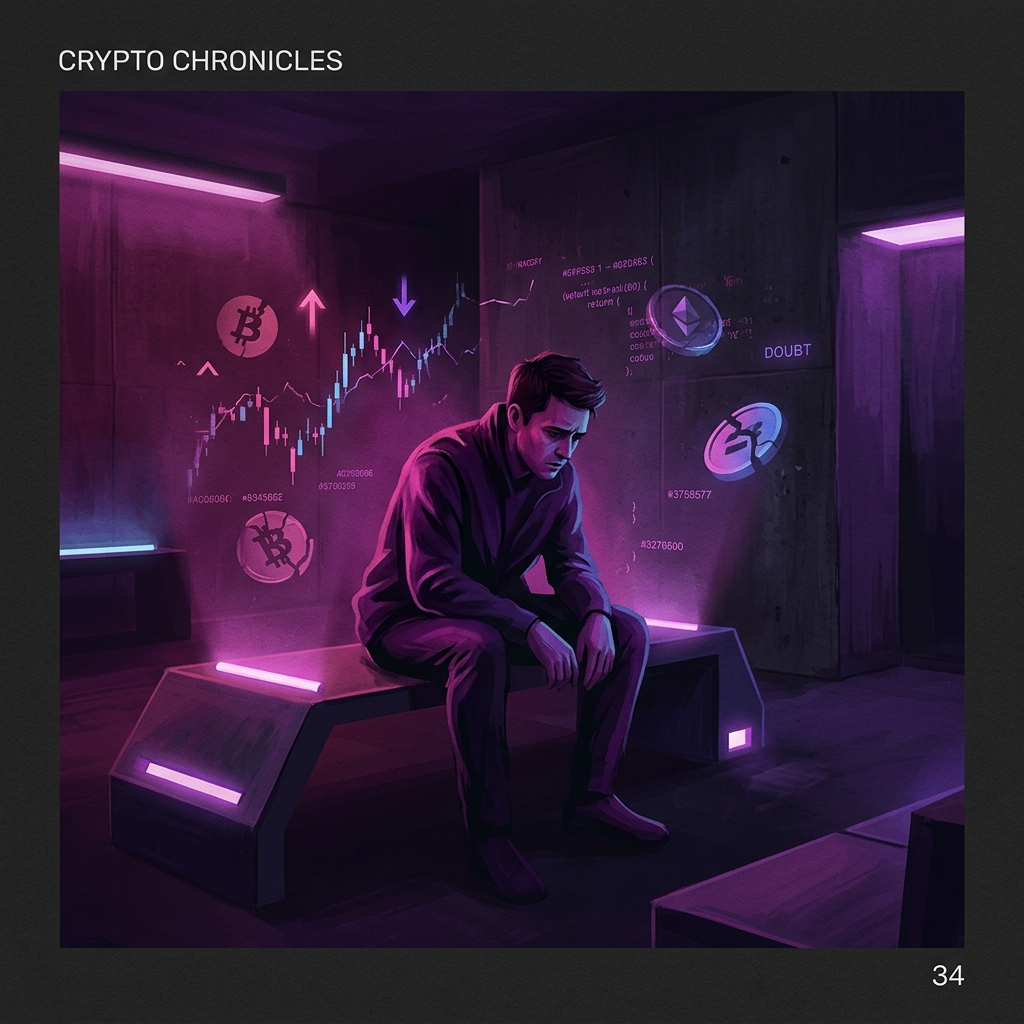
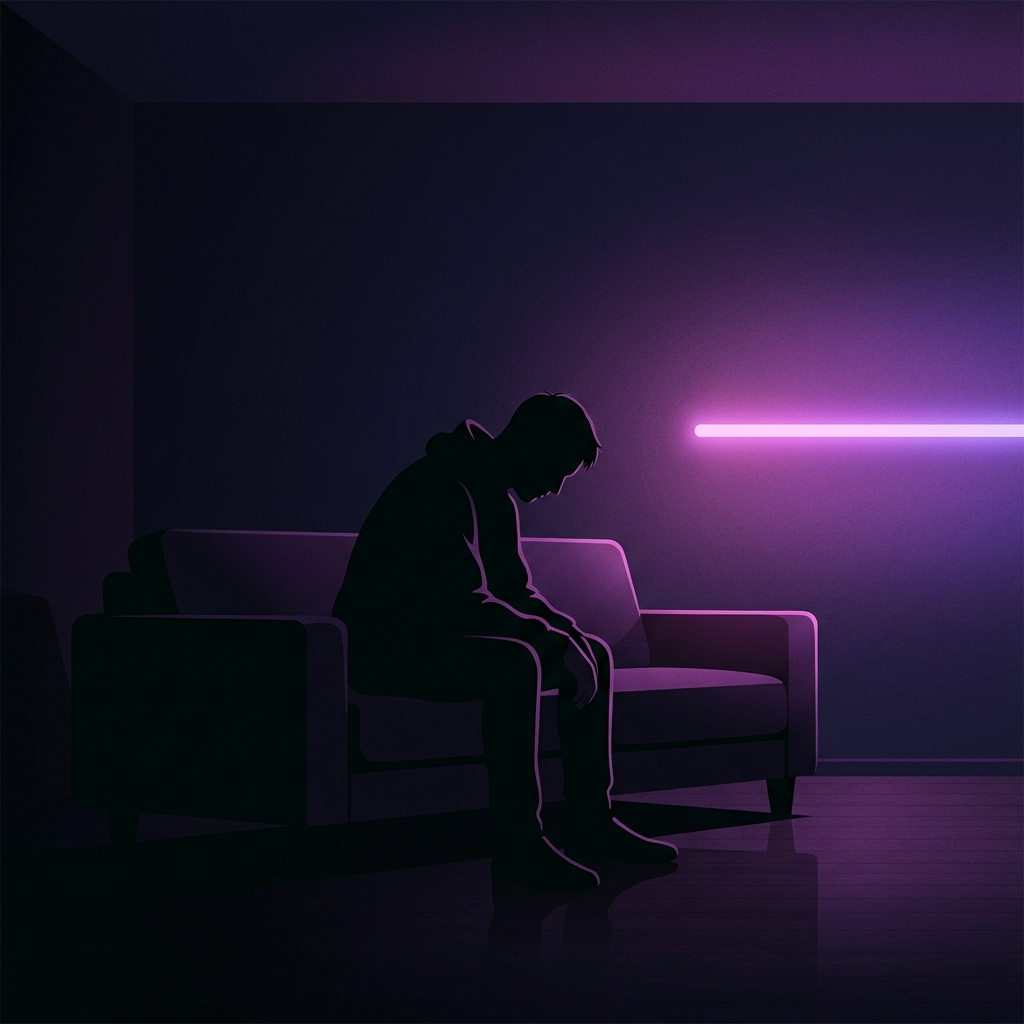
feat: sederhanakan gambar dan perkecil ukuran layout section MindsetSelection
Menggunakan gambar siluet minimalis dengan minim detail (tanpa teks/ikon/koin sibuk) untuk mewakili pesan secara jernih, serta memperkecil lebar grid kartu dan ukuran font teks overlay.

diff --git a/components/landing/MindsetSelection.tsx b/components/landing/MindsetSelection.tsx
@@ -26,10 +26,10 @@ export default function MindsetSelection() {
         </div>
 
         {/* GRID DUA KARTU KOMPARATIF */}
-        <div className="grid grid-cols-1 md:grid-cols-2 gap-8 md:gap-10 max-w-4xl mx-auto">
+        <div className="grid grid-cols-1 md:grid-cols-2 gap-8 md:gap-10 max-w-3xl mx-auto">
           
           {/* KARTU 1 (KIRI): Yang Berani Bertindak (Centang Biru, Aksen Cyan/Biru) */}
-          <div className="relative group rounded-3xl border border-[#00d9ff]/30 bg-[#070707] overflow-hidden aspect-[4/5] sm:aspect-[4/5] md:aspect-[3/4] transition-all duration-500 hover:border-[#00d9ff]/70 hover:shadow-[0_0_40px_rgba(0,217,255,0.12)] cursor-pointer">
+          <div className="relative group rounded-3xl border border-[#00d9ff]/30 bg-[#070707] overflow-hidden aspect-[4/5] transition-all duration-500 hover:border-[#00d9ff]/70 hover:shadow-[0_0_40px_rgba(0,217,255,0.12)] cursor-pointer">
             {/* Badge Verified Centang Biru di Atas Tengah */}
             <div className="absolute -top-4 left-1/2 -translate-x-1/2 z-30">
               <svg className="w-8 h-8 text-[#00d9ff] fill-current drop-shadow-[0_0_8px_rgba(0,217,255,0.6)]" viewBox="0 0 24 24">
@@ -51,7 +51,7 @@ export default function MindsetSelection() {
 
             {/* Konten Teks Overlay */}
             <div className="absolute inset-x-0 bottom-0 p-6 md:p-8 z-20">
-              <p className="text-xl sm:text-2xl md:text-3xl font-bold tracking-tight text-white leading-snug">
+              <p className="text-lg sm:text-xl md:text-2xl font-bold tracking-tight text-white leading-snug">
                 Tapi keberanian mengambil risiko{" "}
                 <span className="underline decoration-[#00d9ff] decoration-2 underline-offset-4">
                   adalah fondasi awal menuju kesuksesan.
@@ -61,7 +61,7 @@ export default function MindsetSelection() {
           </div>
 
           {/* KARTU 2 (KANAN): Yang Ragu & Skeptis (Tanpa Badge, Aksen Purple/Pink) */}
-          <div className="relative group rounded-3xl border border-purple-500/25 bg-[#070707] overflow-hidden aspect-[4/5] sm:aspect-[4/5] md:aspect-[3/4] transition-all duration-500 hover:border-purple-500/50 hover:shadow-[0_0_35px_rgba(168,85,247,0.08)] cursor-pointer">
+          <div className="relative group rounded-3xl border border-purple-500/25 bg-[#070707] overflow-hidden aspect-[4/5] transition-all duration-500 hover:border-purple-500/50 hover:shadow-[0_0_35px_rgba(168,85,247,0.08)] cursor-pointer">
             {/* Gambar Background Ragu */}
             <Image
               src="/path_skeptic.png"
@@ -76,7 +76,7 @@ export default function MindsetSelection() {
             
             {/* Konten Teks Overlay */}
             <div className="absolute inset-x-0 bottom-0 p-6 md:p-8 z-20">
-              <p className="text-xl sm:text-2xl md:text-3xl font-bold tracking-tight text-neutral-200 leading-snug">
+              <p className="text-lg sm:text-xl md:text-2xl font-bold tracking-tight text-neutral-200 leading-snug">
                 Pengetahuan yang kamu pelajari tidak pernah membuatmu gagal.
               </p>
             </div>
